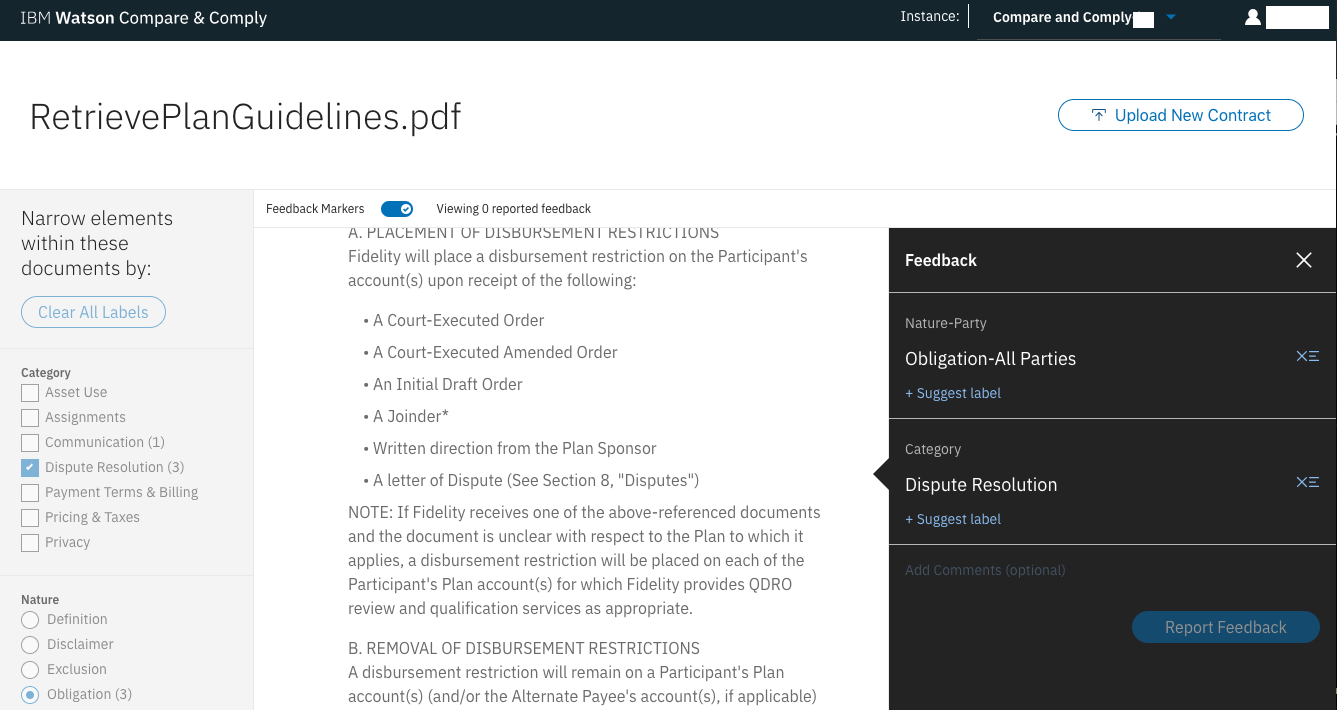
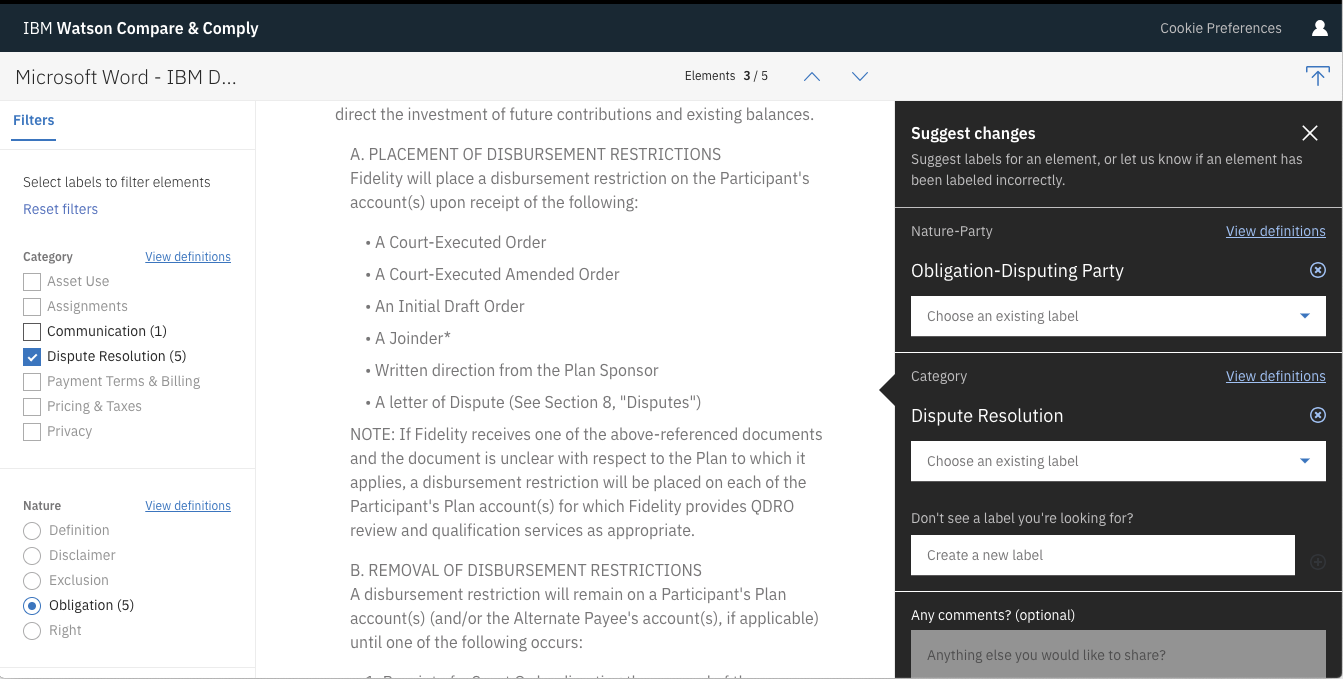
Update for December 14 release

diff --git a/tooling.md b/tooling.md
@@ -2,7 +2,7 @@
 
 copyright:
 years: 2018
-lastupdated: "2018-11-07"
+lastupdated: "2018-12-07"
 
 ---
 
@@ -25,9 +25,6 @@ lastupdated: "2018-11-07"
 The service provides Compare and Comply Tooling to enable you to work with governing documents in a GUI environment. This short tutorial introduces the Tooling and takes you through the process of uploading and analyzing documents, then working with the results.
 {: shortdesc}
 
-The Compare and Comply Tooling currently accepts only PDF files as input. If you want to use another input format such as image or text, use the APIs instead of the Tooling.
-{: important}
-
 ## Before you begin
 {: #before-you-begin}
 
@@ -35,32 +32,36 @@ You need the following before you can use the Compare and Comply Tooling:
 
  - An IBM Cloud account.
  - A Compare and Comply service instance. If you already have a service instance, go to Step 1. If you do not have a service instance, see "Getting Started".
- - Service credentials for the service instance as described in [Before you begin in Getting Started](/docs/services/compare-comply/getting-started.html#before-you-begin).
  
 ## Step 1: Launch the Compare and Comply Tooling
 {: #step1}
 
-1. Launch the Tooling from the following URL: [https://cnc-tooling.watsonplatform.net ![External link icon](../../icons/launch-glyph.svg "External link icon")](https://cnc-tooling.watsonplatform.net){:new_window}
+1. Navigate to your Compare and Comply service instance on IBM Cloud.
 
-1. When prompted, enter the service credentials for the service instance.
+1. If prompted, enter your IBM Cloud login information.
+
+1. Launch the Tooling from the **Manage** tab of your service instance by clicking the **Launch tool** button.
 
 ## Step 2: Upload a document
 {: #step2}
 
-The Tooling launches and displays the landing page. Click **Upload a document**. The Tooling opens a file browser. Select a PDF file and click **Open**.
+The Tooling launches and displays the landing page. Click **Browse for document**. The Tooling opens a file browser. Select an [input file](/docs/services/compare-comply/formats.html) and click **Open**.
 
 The maximum file size is 1.5 MB.
-{: important}
+{: note}
 
 ![Compare and Comply Tooling landing page](images/tool-landing.png)
+![Compare and Comply Tooling upload page](images/tool-landing-2.png)
 
   You have the option to allow IBM Watson to use non-identifiable information from the document for general Watson service improvements. If you want to do this, select the **Allow Watson to use this document for learning** checkbox. The checkbox text includes a link to more information at [See more details ![External link icon](../../icons/launch-glyph.svg "External link icon")](https://console.bluemix.net/docs/services/watson/getting-started-logging.html#controlling-request-logging-for-watson-services){: new_window}. You can also see [https://www.ibm.com/watson/data-privacy/ ![External link icon](../../icons/launch-glyph.svg "External link icon")](https://www.ibm.com/watson/data-privacy/){:new_window} for information about IBM's commitment to data privacy.
   {: tip}
+  
+Click **Upload and continue**.
 
 ## Step 3: Filter elements by labels
 {: #step3}
 
-The Compare and Comply Tooling displays three panes. The top pane lists the name of the PDF file and provides the **Upload New Contract** button. The left-side pane enables you to select specific labeled elements to display. The right-side pane displays the document in HTML format.
+The Compare and Comply Tooling displays three panes. The top pane lists the name of the input file and provides the **Upload new document** icon (![Compare and Comply Tooling upload new document button](images/tooling-upload-icon.png)). The left-side pane enables you to select specific labeled elements to display. The right-side pane displays the document in HTML format.
 
 ![Compare and Comply Tooling with opened document](images/tooling-open-doc.png)
  
@@ -68,12 +69,14 @@ The Compare and Comply Tooling displays three panes. The top pane lists the name
 
   Category selections are logical `AND` operations. That is, if you select more than one category, the Tooling highlights only the elements that match all of the selections.
   {: note}
+  
   ![Compare and Comply Tooling with category selection](images/tooling-category.png)
  
 1. After selecting the category, you can select one or more active labels from the **Nature** listings, the **Party** listings, or both. As you make additional selections, the highlights change to match the combination of selected labels.
 
   Nature and party selections are logical `OR` operations. That is, if you select more than one nature or party, the Tooling highlights all elements that match any of the selections.
   {: note}
+  
   ![Compare and Comply Tooling with category and nature selections](images/tooling-cat-nature.png)
  
 1. Click a highlighted element to display all labels applied to the element. You can optionally provide _feedback_ to the labels and elements, as described in [Adding feedback](#tool-add-feedback).
@@ -81,9 +84,9 @@ The Compare and Comply Tooling displays three panes. The top pane lists the name
 
 1. Use the up and down arrows to the right of the document to cycle through elements that match the specified labels.
 
-1. Optionally, click **Clear All Labels** to unselect all labels.
+1. Optionally, click **Reset filters** to unselect all labels.
 
-1. Optionally, open another document by clicking **Upload New Contract**. The Tooling opens a file browser. Proceed as described in Step 2.
+1. Optionally, open another document by clicking the **Upload new document** icon (![Compare and Comply Tooling upload new document button](images/tooling-upload-icon.png)). The Tooling opens a file browser. Proceed as described in Step 2.
    ![Compare and Comply Tooling: Upload a new contract](images/tooling-replace.png)
 
 See [Understanding contract parsing](/docs/services/compare-comply/parsing.html#contract_parsing) for listings and descriptions of all available categories, natures, and parties.
@@ -91,25 +94,29 @@ See [Understanding contract parsing](/docs/services/compare-comply/parsing.html#
 ## Adding feedback
 {: #tool-add-feedback}
 
-As noted in Step 3, you can double-click any highlighted element in the Compare and Comply Tooling to display a pop-up showing the labels that are currently applied to the element. If you disagree with the labels, you can provide feedback to be reviewed and potentially incorporated into future updates to the service's learning model.
+As noted in Step 3, you can click any highlighted element in the Compare and Comply Tooling to display a pop-up showing the labels that are currently applied to the element. If you disagree with the labels, you can provide feedback to be reviewed and potentially incorporated into future updates to the service's learning model.
 
 For more detailed information about feedback, see [Using the feedback APIs](/docs/services/compare-comply/feedback.html#feedback).
 
 To provide feedback in the Tooling, perform the following steps:
 
-1. As described in the previous steps in this topic, open the Tooling, open a document, and apply the labels you want to examine. Double-click on a highlighted passage to display the informational pop-up.
+1. As described in the previous steps in this topic, open the Tooling, open a document, and apply the labels you want to examine. Click on a highlighted passage to display the informational pop-up.
 
-1. If you disagree with the information displayed in the pop-up, click the **Report Feedback** link. The **Feedback** panel opens.
+1. If you disagree with the information displayed in the pop-up, click **Suggest changes**. The **Feedback** panel opens.
    ![Compare and Comply Tooling: Feedback panel](images/tool-feedback-panel.png).
    
 1. The panel lists each labeled element in the highlighted passage. Perform one or more of the following actions:
    - Mark the label as incorrect by clicking the ![Feedback incorrect icon](images/mark-icon.png) icon. The Tooling displays the status message **Marked incorrect** for the element. If you click the icon by accident or change your mind at a later time, click the ![Undo icon](images/tool-undo.png) icon.
    - Suggest a different label for the element by clicking **+ Suggest Label** and selecting a label from the drop-down menu. The Tooling displays the status message **Suggested**. You can undo the suggestion by clicking the  ![Undo icon](images/tool-undo.png) icon.
-   - Explain about your feedback by clicking **Add Comments (optional)** and entering a brief text description.
+   - Explain your feedback by entering a brief text description in the **Any comments? (optional)** field.
    
    To dismiss the **Feedback** panel and abandon your feedback, click the **X** in the upper right-hand corner of the panel.
    
-1. When you have finished providing feedback on the highlighted element, click **Report Feedback**.
+1. When you have finished providing feedback on the highlighted element, click **Submit**.
+
+1. The **Feedback** panel prompts you for additional feedback.
+   ![Compare and Comply Tooling: Prompt for additional feedback](images/tool-feedback-prompt.png)
+   Click **No, thanks** to finish creating feedback. Click **Next** to provide additional feedback.
 
 The following screen image shows the **Feedback** panel with feedback provided for an arbitrary element.
 
@@ -118,7 +125,4 @@ The following screen image shows the **Feedback** panel with feedback provided f
 ### Reviewing feedback
 {: #review_feedback}
 
-Optionally, review some or all feedback in the document. Above the pane that shows the HTML version of your document, the Tooling displays a **Feedback Markers** toggle and the number of feedback instances that have been made to the document. By default, the toggle is enabled to show all elements in the document that have received feedback. Elements with feedback are highlighted and have a blue dot (![blue dot](images/blue-dot.png)) in the left-hand margin. You can perform any or none of the following actions:
-   - Turn off feedback markers by clicking off the **Feedback Markers** toggle.
-   - Double-click the highlight or the dot to open the informational pop-up. The pop-up includes a **Show reported feedback** drop-down; click it to review the previous feedback.
-   - Provide different or additional feedback on the same element by clicking **Report Feedback** in the pop-up.
+Optionally, review some or all feedback in the document. Elements with feedback are highlighted and have a vertical blue bar before the highlighted text. You can Click the highlight or the bar to open an informational pop-up. The pop-up includes a **Show suggested changes** drop-down; click it to review the previous feedback.

diff --git a/formats.md b/formats.md
@@ -2,7 +2,7 @@
 
 copyright:
   years: 2018
-lastupdated: "2018-12-03"
+lastupdated: "2018-12-07"
 
 ---
 
@@ -31,15 +31,14 @@ IBM Watson&reg; Compare and Comply supports a variety of input formats, includin
 Observe the following notes regarding files submitted to Compare and Comply.
 
   - For optimal results, specify the MIME type when submitting a file. For example, if you submit a PDF file, it is recommended that you specify the file as follows:
-     ```bash
+     ```
      curl -u "apikey:{apikey}" -F "file=@myFile.pdf;type=application/pdf" https://gateway.watsonplatform.net/compare-comply/api/v1/{method_name}?version=2018-10-15
      ```
      {: pre}
     MIME types are provided with the supported file types listed in the following sections.
-
   - Files can be up to 1.5 MB in size when submitted to the service with individual methods. If you submit files through the [`/v1/batches` interface](/docs/services/compare-comply/batching.html#batching), files can be up to 50 MB in size.
   - Documents with non-standard page layouts (such as 2 or 3 columns per page) do not parse correctly.
-  - The [Compare and Comply Tooling](/docs/services/compare-comply/tooling.html#tooling) currently accepts **only** PDF files.
+  - The [Compare and Comply Tooling](/docs/services/compare-comply/tooling.html#tooling) accepts all file types other than text.
   
 ## PDF support
 {: #pdfs}
@@ -83,6 +82,7 @@ The service's methods can accept different types of files as specified in the fo
 
 | Method           |PDF support   |Word support     |Image support        |Text support    |
 |------------------|-----------------|-----------------------------------------|
+|Tooling           | Supported    | Supported | All supported image formats | **Not** supported |
 |`/v1/html_conversion`| Supported | Supported | All supported image formats | Supported |
 |`/v1/element_classification`| Supported | Supported | All supported image formats | **Not** supported |
 |`/v1/tables`      | Supported | Supported | All supported image formats | Supported |
@@ -91,7 +91,6 @@ The service's methods can accept different types of files as specified in the fo
 
 \* The `/v1/comparison` method also accepts JSON files from the output of the `/v1/element_classification` method.
 {: note}
-
 
 The `/v1/feedback` methods do not accept image or text files. 
 

diff --git a/relnotes.md b/relnotes.md
@@ -2,7 +2,7 @@
 
 copyright:
   years: 2017, 2018
-lastupdated: "2018-12-05"
+lastupdated: "2018-12-07"
 
 ---
 
@@ -57,6 +57,7 @@ The Compare and Comply service is now generally available. The GA release includ
 
 | Method           |PDF support   |Word support     |Image support        |Text support    |
 |------------------|-----------------|-----------------------------------------|
+|Tooling           | Supported    | Supported | All supported image formats | **Not** supported |
 |`/v1/html_conversion`| Supported | Supported | All supported image formats | Supported |
 |`/v1/element_classification`| Supported | Supported | All supported image formats | **Not** supported |
 |`/v1/tables`      | Supported | Supported | All supported image formats | Supported |
@@ -91,7 +92,7 @@ The `/v1/batches` methods accept images and text files according to the method c
 ### 30 October 2018
 {: #30oct2018}
 
-**Important:** Changes to the service's API and output schema are ongoing throughout the course of the beta. The API and output schema will be stabilized when the service becomes generally available (GA). When writing applications that access the service, be aware that the API calls and output can change in a future release; applications that access the service therefore need not to be used in a production environment. The following list summarizes the major API and schema changes in the current release.
+Changes to the service's API and output schema are ongoing throughout the course of the beta. The API and output schema will be stabilized when the service becomes generally available (GA). When writing applications that access the service, be aware that the API calls and output can change in a future release; applications that access the service therefore need not to be used in a production environment. The following list summarizes the major API and schema changes in the current release.
 {: important}
 
   - A new API version date (`2018-10-15`). If you specify an API version date earlier than `2018-10-15`, you call an older API that most likely has different method names and parameters than those documented for the current release.

diff --git a/getting-started.md b/getting-started.md
@@ -3,6 +3,7 @@
 copyright:
   years: 2017, 2018
 lastupdated: "2018-12-05"
+
 ---
 
 {:shortdesc: .shortdesc}
@@ -21,10 +22,22 @@ lastupdated: "2018-12-05"
 # Getting started
 {: #getting_started}
 
+## Where to start
+{: #start-options}
+
+**Get started with the API**
 This short tutorial introduces IBM Watson&reg; Compare and Comply and goes through the process of classifying a contract to identify component pieces, their nature, the parties affected, and any identified categories.
 {: shortdesc}
 
 This tutorial uses the `/v1/element_classification` method. Other service methods have similar input syntax and output formats. For more information, see the pages for other methods.
+
+**Get started with the tooling**
+Optionally, you can explore Element Classification using the Compare and Comply tooling. Information about the Compare and Comply tool can be found [here]((/docs/services/compare-comply/tooling.html).
+
+**Request Limited Preview Features**
+Compare and Comply has the following beta and experimental features that can be accessed by request:
+  -  Invoice Understanding: Compare and comply finds and extracts important information such as buyer, supplier, invoice date, and amount owed. Please fill out the following [form](http://ibm.biz/invoices) to gain access to this feature.
+
 
 ## Before you begin
 {: #before-you-begin}
@@ -142,7 +155,6 @@ Some sentences cover multiple topics, in which case the service returns multiple
   
 Some sentences do not contain any identifiable attributes, in which case the service returns the `attributes` array as empty objects.
 {: note}
-
 
 
 ### Tables

diff --git a/tables.md b/tables.md
@@ -28,7 +28,7 @@ In a `bash` shell or equivalent environment such as Cygwin, use the `POST /v1/ta
   - `version` (**required** `string`): A date in the format `YYYY-MM-DD` that identifies the specific version of the API to use when processing the request.
   - `file` (**required** `file`): The input file that is to be classified.
   - `model` (optional `string`): If this parameter is specified, the service runs the specified type of element classification. Currently, the only supported value is `contracts`.
-
+  
 Replace `{apikey}` with the API key you copied earlier and `{input_file}` with the path to the input file to parse.
 
 ```bash

diff --git a/html_convert.md b/html_convert.md
@@ -32,7 +32,7 @@ In a `bash` shell or equivalent environment such as Cygwin, use the `POST /v1/ht
 You can specify the response content type to return the converted HTML in either JSON (the default) or raw HTML. See the examples following the command example for the different formats.
   - To return JSON explicitly, specify the header `-H "Accept: application/json"`. This is the default.
   - To return raw HTML, specify the header `-H "Accept: text/html"`.
-
+  
 Replace `{apikey}` with the API key you copied earlier and `{input_file}` with the path to the input file to convert.
 
 ```bash
